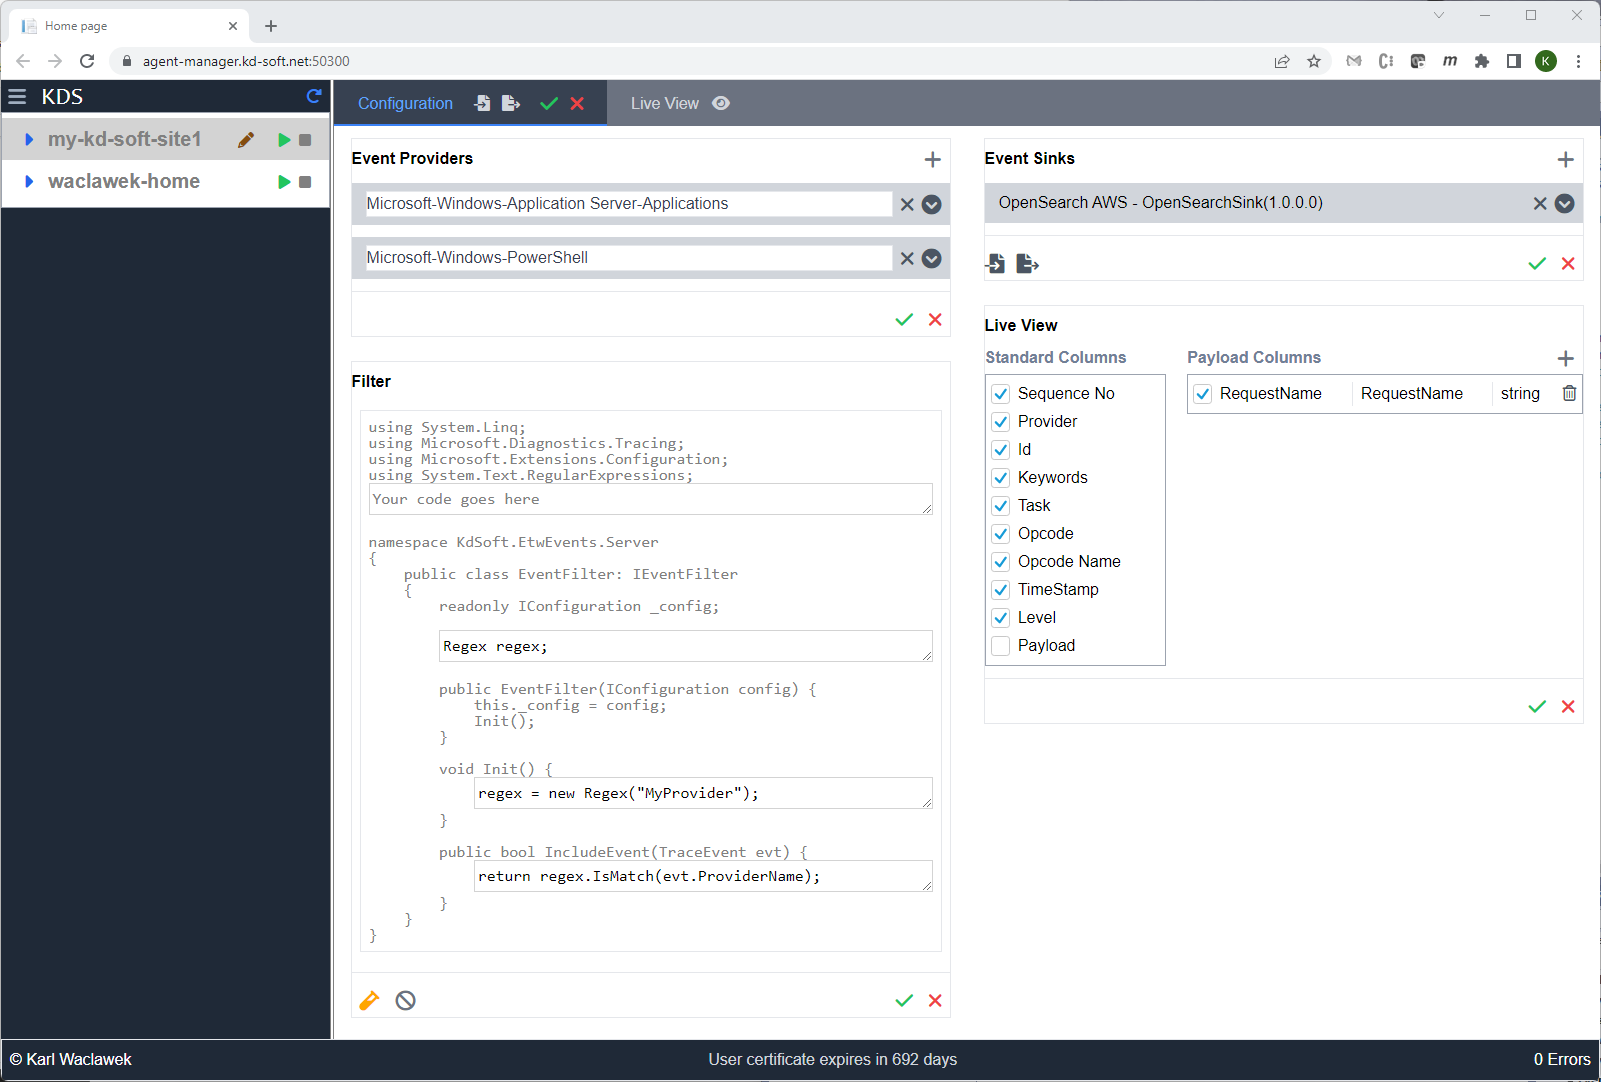
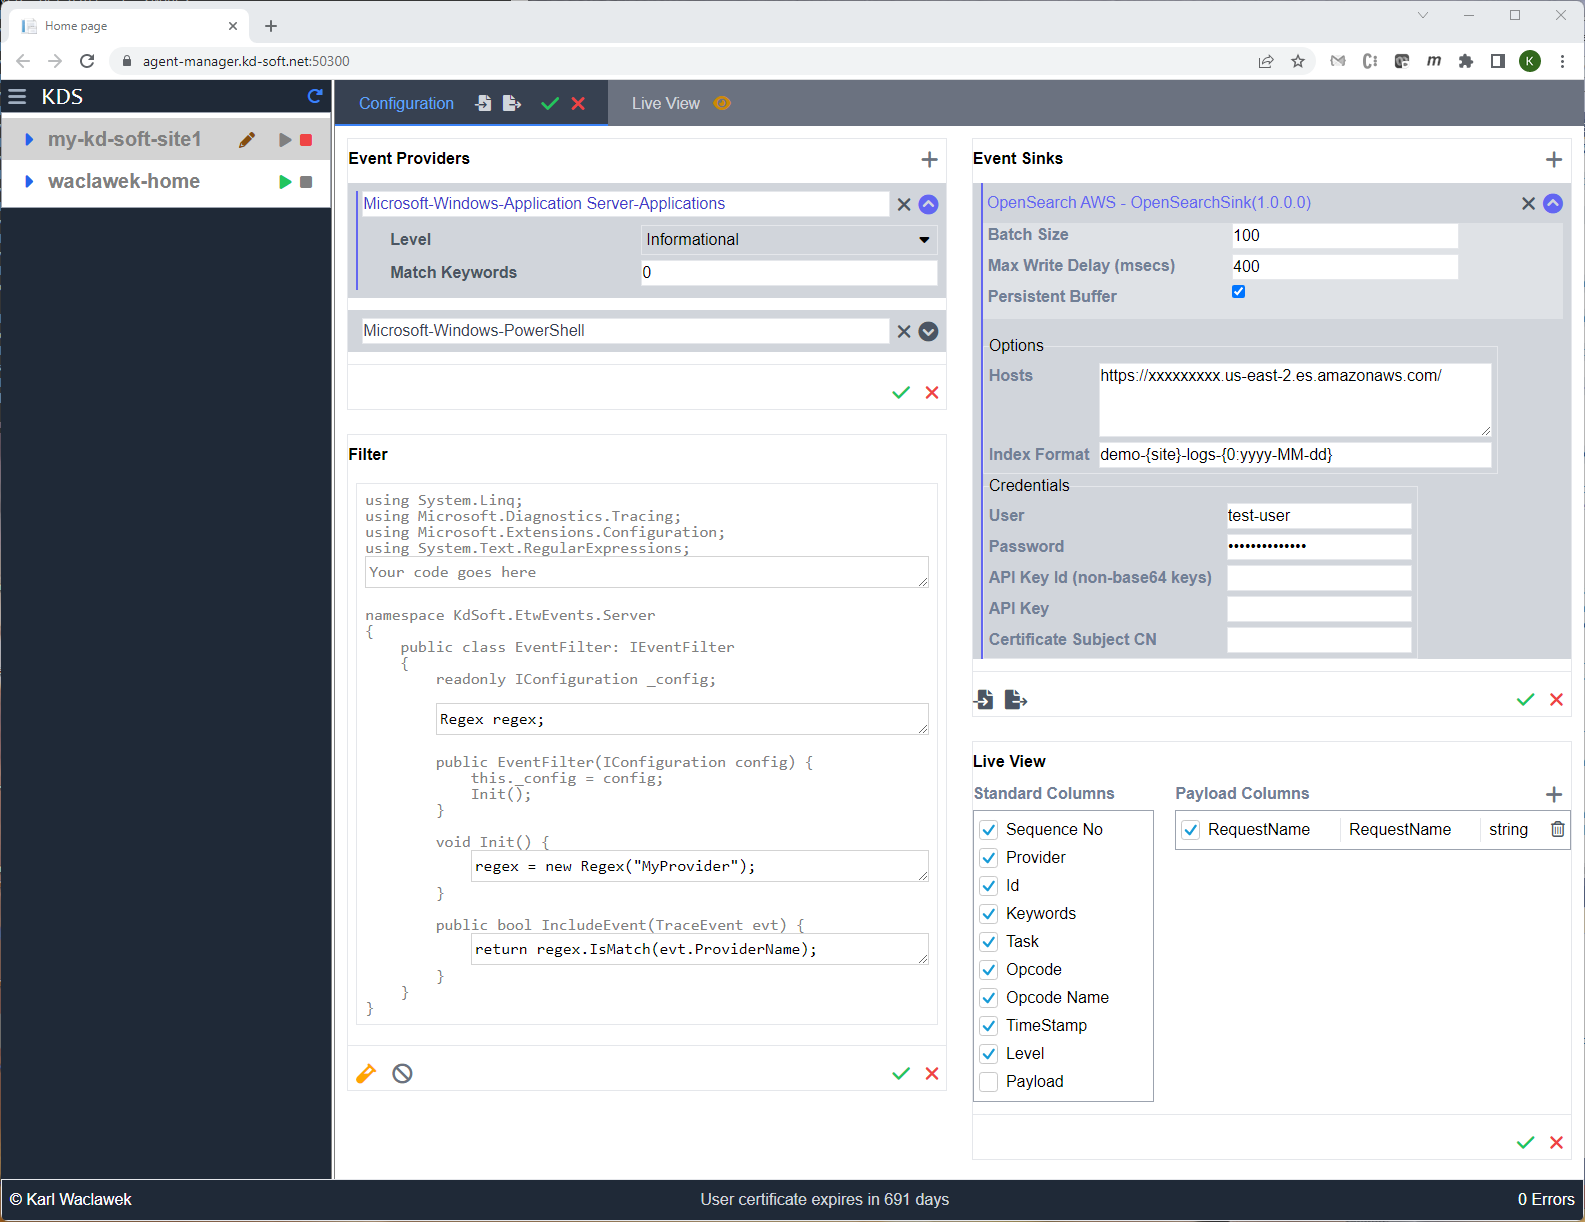
Documentation improvements.

diff --git a/ReadMe.md b/ReadMe.md
@@ -5,41 +5,68 @@ A system to extract ETW (Event Tracing for Windows) events and collect them cent
 ## Overview
 
 An EtwListener deployment consists of two types of nodes:
-
-1) One or more agents: they are installed on each machine that needs log collection.
-
-2) One agent manager: it configures, starts and stops the agents.
+1. One or more agents: they are installed on each machine that needs log collection.
+2. One agent manager: it configures, starts and stops the agents.
 
 Agents communicate with the agent manager by establishing an SSE (Server Sent Events) connection to the configured agent manager. The agent manager in turn uses this connection to "push" control messages to the agents.
-
-* Some control messages update the agent's configuration or start/stop the agent.
-
-* Some control messages prompt the agent to report status updates.
-
-* All authentication between Agent and Agent Manager, as well as between User and Agent Manager is based on the use of client certificates.
+- Some control messages update the agent's configuration or start/stop the agent.
+- Some control messages prompt the agent to report status updates.
+- All authentication between Agent and Agent Manager, as well as between User and Agent Manager is based on the use of client certificates.
 
 A typical deployment example with Elastic Search as log destination:
-
 ![ETW Events.png](./doc/ETW%20Events.png)
 
 ## Agent
 
 An agent is a Windows service that can make outging network connections.
-
-* It is always connected to the agent manager configured during the install.
-
-* Depending on configuration, the agent can also connect to an external endpoint to send the log events to.
-
-* For installation instructions, see [Install.md](./EtwEvents.PushAgent/Install.md) and [deploy/ReadMe.md](./EtwEvents.PushAgent/deploy/ReadMe.md).
+- It is always connected to the agent manager configured during the install.
+- Depending on configuration, the agent can also connect to an external endpoint to send the log events to.
+- For installation instructions, see [Install.md](./EtwEvents.PushAgent/Install.md) and [deploy/ReadMe.md](./EtwEvents.PushAgent/deploy/ReadMe.md).
 
 ## Agent Manager
 
 The agent manager is a web site that allows for configuring, starting and stopping connected agents.
-
-* The agent manager does not connect to the agents, it is the agents' responsibility to connect to the agent manager.
-* For build and run instructions, see [ReadMe.md](./EtwEvents.AgentManager/ReadMe.md).
-* Installation can be done using Docker, or as described in [Install.md](./EtwEvents.AgentManager/Install.md) and [deploy/ReadMe.md](./EtwEvents.AgentManager/deploy/ReadMe.md).
+- The agent manager does not connect to the agents, it is the agents' responsibility to connect to the agent manager.
+- For build and run instructions, see [ReadMe.md](./EtwEvents.AgentManager/ReadMe.md).
+- Installation can be done using Docker, or as described in [Install.md](./EtwEvents.AgentManager/Install.md) and [deploy/ReadMe.md](./EtwEvents.AgentManager/deploy/ReadMe.md).
 
 ### UI Overview
 
+The UI consists of two main sections, a side bar and a main pane for configuration settings or a live-view.
+- The sidebar shows a list of connected agents.
+- Configuration pane contains settings for the selected agent:
+  - **ETW Providers**
+  - **Filter** logic (C# code) to be applied to each ETW event.
+  - **Event Sinks**, where the ETW events are sent to.
+  - **Live View** display settings.
+
+  All configurations settings can be applied to the running agent and will take effect as soon as possible.
+
 ![AgentManager.png](./doc/AgentManager.png)
+
+- Side Bar:
+  - The agent can be started (green triangle) or stopped (red square).
+  - Expanding an agent entry shows more details for the agent, including how long the agent's client certificate is still valid.
+- Main pane - configuration:
+  - The *ETW Providers* section has these fields:
+    - The provider's' "well-known" name, or the provider's' GUID.
+    - Level: except for "Always", levels further down in the list log more than levels further up.
+    - Match Keywords: A keyword (8-byte bitmask) that enables efficient filtering of events from specific provider subcomponents. The meaning is provider-specific.
+  - The *Filter* section has a code sceleton for a C# class:
+    - When the class is instantiated, the Init() method will be called.
+    - For each ETW event received from the provider(s), the IncludeEvent(TraceEvent evt) method will be called.
+      - If it returns `true` then the event will be included, otherwise it will be ignored.
+    - The code can be tested for syntactical correctness with the orange "Test" button.
+  - The *Event Sinks* section:
+    - Has a common set of fields for all types of event sinks:
+      - Batch Size: events will be sent in batches of that size, if they a received very frequently.
+      - Max Write Delay: if events are received infrequently, they will be sent no later than the specified delay, even if the batch is not full.
+      - Persistent Buffer: if this flag is checked, then events will be buffered on disk while there is an interruption in delivering them to the event sink.
+    - Has specific fields for each event sink, divided into two groups, *Options* and *Credentials*.
+  - The *Live View* section decribes which columns are shown in the live view:
+    - There are standard columns for the standard fields in an ETW event.
+    - There are *Payload* columns that are specific to each event type.
+    - The live view is meant for testing the configuration, it is not intended as a proper event sink.
+- Footer
+  - Shows how long the user's client certificate is still valid.
+  - If any errors in communicating with an agent occurred then the error number will be > 0 and clicking on the Errors label will slide up a list of errors.

diff --git a/Push-Agent-Workspace.md b/Push-Agent-Workspace.md
@@ -1,0 +1,11 @@
+# Push-Agent
+
+Workspace: push-agent.code-workspace
+
+Debugging push-agent stack:
+
+1. Open workspace file in VS Code and activate Run and Debug tab
+2. Select Push-Agent-Full-Stack configuration
+3. Click run/debug button
+
+ 
